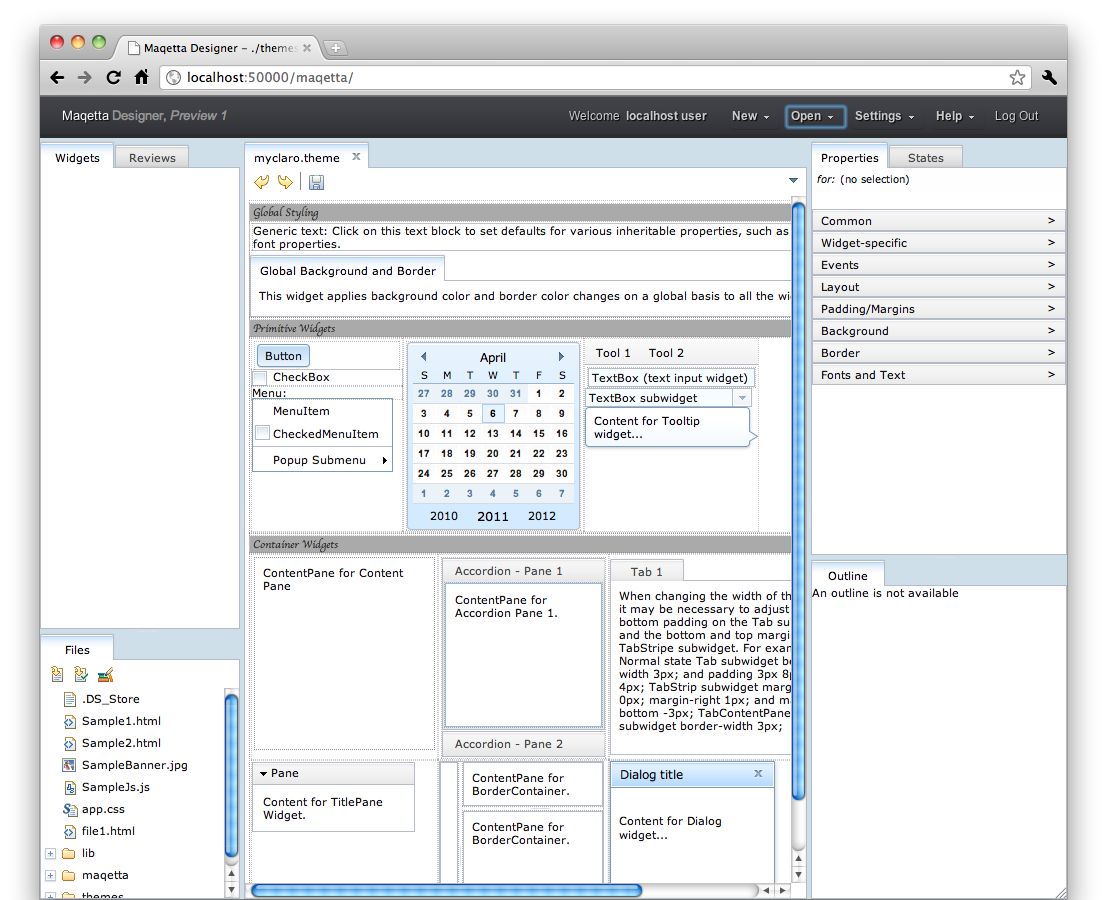
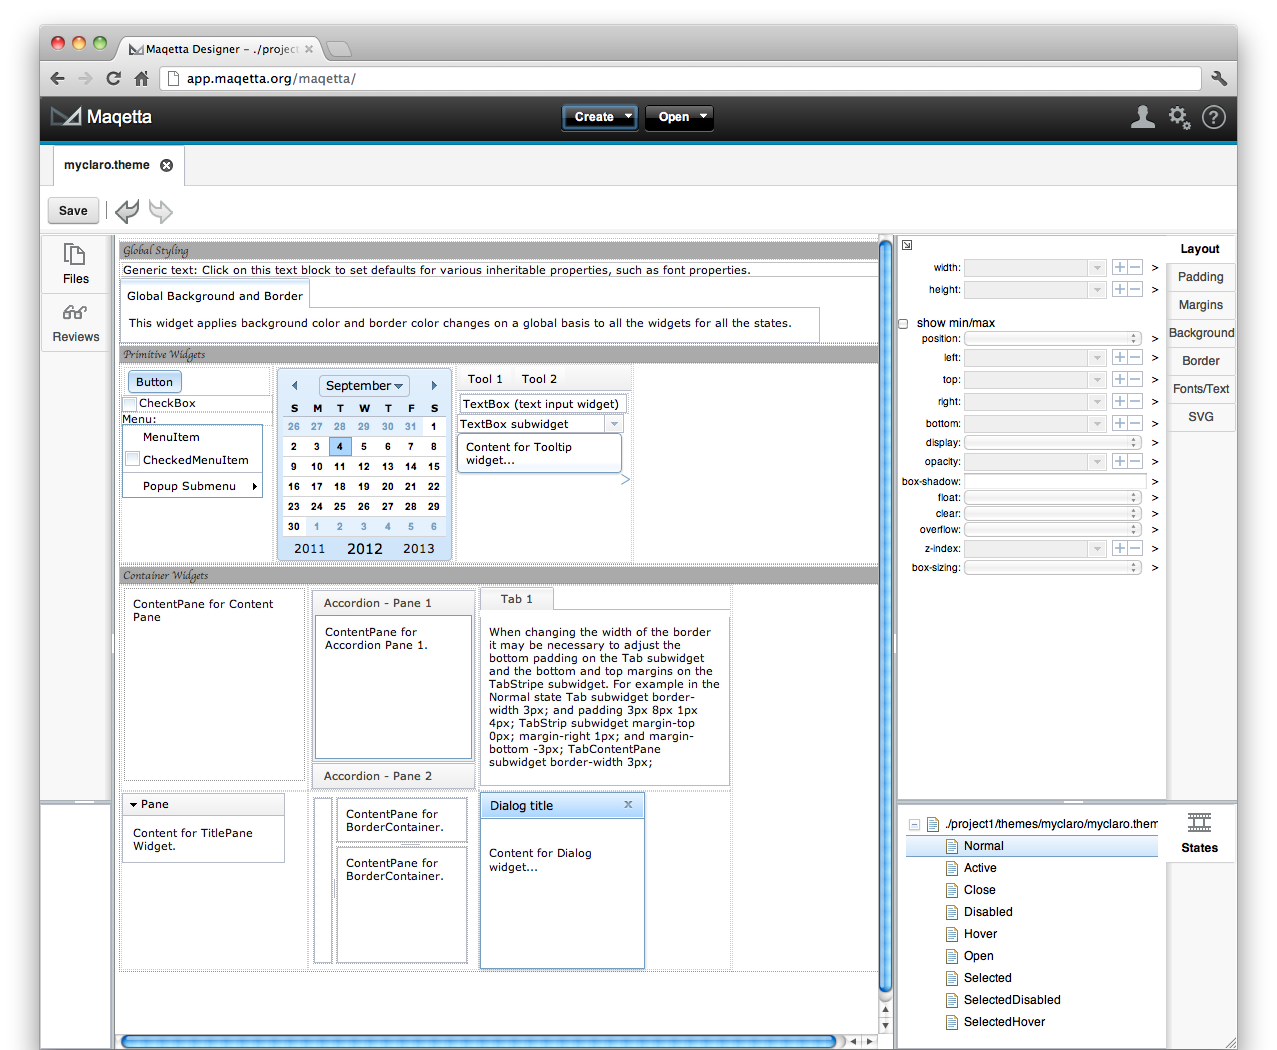
Update desktop theme editor tutorial

diff --git a/maqetta.core.client/WebContent/docs/tutorials/Desktop_Theme_Editor.html b/maqetta.core.client/WebContent/docs/tutorials/Desktop_Theme_Editor.html
@@ -23,7 +23,7 @@
 <a name="newtheme"><h2>Cloning the Claro theme and launching the theme editor</h2></a>
 
 <p>To create a new CSS theme and launch the theme editor, 
-	select <b>New &gt; Theme...</b> from the Maqetta menu bar.
+	select <b>Create &gt; Theme...</b> from the Maqetta menu bar.
 	A dialog will appear. In the first field, choose "claro" as the theme to clone.
 	In the second field, enter "myclaro" as the name for the cloned theme.
 	<em>(Note: theme names must not contain spaces or other special characters.)</em>
@@ -34,7 +34,7 @@
 	</div>
 </p> 
 	
-<p>After issuing the <b>New &gt; Theme</b> command, the Maqetta application should look something like this:</p>
+<p>After issuing the <b>Create &gt; Theme</b> command, the Maqetta application should look something like this:</p>
 
 <p><a href="img/Maqetta_ThemeEditor.png" target="_blank"><img alt="image" src="img/Maqetta_ThemeEditor.png" style="margin: 1em 1em 0pt 0pt;" width="500" /></a></p>
 
@@ -74,12 +74,11 @@ three sections: <b>Global Styling</b>, <b>Primitive Widgets</b> and <b>Container
 <li>Open the <b>Fonts and Text</b> section of the Properties palette.</li>
 <li>Set the font color to red.</li>
 <li>Notice how the text for all the widgets is now red.</li>
-<li>If you wish to commit this theme change, click on the <b>Save</b> icon <img class="inline" src="img/save_icon.png" /> to save your changes.
+<li>If you wish to commit this theme change, click on the <b>Save</b> button on the toolbar to save your changes.
 (Note: You can undo after saving within the same editing session.)</li>
 <li class="topgap">Create a new HTML file to see the new font color:
 <ol>
-<li>Select <b>New &gt; HTML file</b> from the Maqetta menu bar.
-	In the New HTML File dialog, set the Composition type to "Desktop hi-fi page" using the drop-down menu. 
+<li>Select <b>Create &gt; Desktop Application</b> from the Maqetta menu bar.
 	You can either accept the default filename
 	(e.g., <code>file1.html</code>) or enter a custom filename. Click on the Create button.</li> 
 <li>Drag a Button onto the canvas.
@@ -91,7 +90,7 @@ and the default text color with Claro is black.
 <li>Drag the HTML Rich Text widget onto the canvas and type in some text.</li>
 <li>Click off of the rich text widget to close it.</li>
 <li><i>Note that all of the text is black.</i></li>
-<li>On the toolbar, click on the "Switch themes" icon: <img src="img/stylesheet.gif" style="margin:0"></img>.
+<li>On the toolbar, choose the "Switch theme" command from the dropdown menu on the Document Settings icon (2nd from right on toolbar).
 	This will bring up a dialog that allows you to switch to a different theme.
 	In the menu, choose "myclaro" as the theme to use.</li>
 <li><i>Note that all of the text is now red.</i>
@@ -109,15 +108,14 @@ and the default text color with Claro is black.
 <li>Open the <b>Background</b> section of the Properties palette.</li>
 <li>Set the background color to a pale green.</li>
 <li>Notice how the color on the Primitive widgets is now green.</li>
-<li>Click on the <b>Save</b> icon <img class="inline" src="img/save_icon.png" /> to save your changes.</li>
+<li>Click on the <b>Save</b> icon button on the toolbar to save your changes.</li>
 <li class="topgap">Create a new HTML file to see the new background color:
 <ol>
-<li>Select <b>New &gt; HTML file</b> from the Maqetta menu bar to create a new HTML file. 
-	In the New HTML File dialog, set the Composition type to "Desktop hi-fi page" using the drop-down menu. </li> 
+<li>Select <b>Create &gt; Desktop Application</b> from the Maqetta menu bar to create a new HTML file. </li>
 <li>Drag a Button onto the canvas.</li>
 <li>Drag a Calendar onto the canvas.</li>
 <li><i>Note that both widgets are blue. This is because new HTML files start with the Claro theme.</i></li>
-<li>On the toolbar, click on the "Switch themes" icon: <img src="img/stylesheet.gif" style="margin:0"></img>.
+<li>On the toolbar, choose the "Switch theme" command from the dropdown menu on the Document Settings icon (2nd from right on toolbar).
 	This will bring up a dialog that allows you to switch to a different theme.
 	In the menu, choose "myclaro" as the theme to use.</li>
 <li><i>Note that the two widgets are now green.</i>
@@ -141,18 +139,17 @@ and the default text color with Claro is black.
 <li>In the Properties palette, open the <b>Fonts and Text</b> section.</li>
 <li>Adjust the various text properties (e.g., font family, font size, color).</li> 
 <li>Notice how the changes are applied to the Button widget on the canvas.</li> 
-<li>Click on the <b>Save</b> <img class="inline" src="img/save_icon.png" /> icon on the page editor toolbar to save your theme modifications.</li>
+<li>Click on the <b>Save</b> button on the toolbar to save your theme modifications.</li>
 </ol></li>
 <li class="topgap">Create a new HTML file to use the new button style:
 <ol>
-<li>Select <b>New &gt; HTML file</b> from the Maqetta menu bar to create a new HTML file.
-	In the New HTML File dialog, set the Composition type to "Desktop hi-fi page" using the drop-down menu. </li> 
+<li>Select <b>Create &gt; Desktop Application</b> from the Maqetta menu bar to create a new HTML file.</li> 
 <li>Drag two buttons from the Widget palette onto the canvas.</li>
-<li>On the toolbar, click on the "Switch themes" icon: <img src="img/stylesheet.gif" style="margin:0"></img>.
+<li>On the toolbar, choose the "Switch theme" command from the dropdown menu on the Document Settings icon (2nd from right on toolbar)..
 	This will bring up a dialog that allows you to switch to a different theme.
 	In the menu, choose "myclaro" as the theme to use.</li>
 <li>Notice how the two buttons reflect the styling settings that you defined in the theme editor.</li> 
-<li>In the page editor toolbar, click the <b>Preview in Browser</b> <img class="inline" src="img/preview-browser.gif" /> icon. This will launch a new browser window that contains the HTML page you just created.</li>
+<li>In the page editor toolbar, click the <b>Preview in Browser</b> <img class="inline" src="img/preview-browser.png" /> icon. This will launch a new browser window that contains the HTML page you just created.</li>
 </ol></li></ol>
 
 <p class="note">Sometimes changes made in the theme editor don't show up in the page editor until you do a browser refresh. 
@@ -213,15 +210,14 @@ Save and close the theme editor before doing a browser refresh, then reopen it i
 <li>Click off the Color Picker to accept the same color and close the picker.</li></ol></li>
 
 <li class="topgap">View <b>TabContainer</b> in various states:<ol>
-<li>Click on the <b>Save</b> <img class="inline" src="img/save_icon.png" /> icon on the theme editor toolbar to save your changes.</li>
-<li>Open a new HTML file (select <b>New &gt; HTML File...</b> from the Maqetta menu bar).
-	In the New HTML File dialog, set the Composition type to "Desktop hi-fi page" using the drop-down menu.</li>
-<li>On the toolbar, click on the "Switch themes" icon: <img src="img/stylesheet.gif" style="margin:0"></img>.
+<li>Click on the <b>Save</b> button on the toolbar to save your changes.</li>
+<li>Open a new HTML file (select <b>Create &gt; Desktop Application</b> from the Maqetta menu bar).</li>
+<li>On the toolbar, choose the "Switch theme" command from the dropdown menu on the Document Settings icon (2nd from right on toolbar).
 	This will bring up a dialog that allows you to switch to a different theme.
 	In the menu, choose "myclaro" as the theme to use.</li>
 <li>Drag a TabContainer onto the canvas (accept the default tab names).</li>
 <li>Click on each tab to view the color differences.</li>
-<li>Click the <b>Preview in Browser</b> <img class="inline" src="img/preview-browser.gif" /> icon in the toolbar. This will launch a new browser window that contains the HTML page you just created.</li>
+<li>Click the <b>Preview in Browser</b> <img class="inline" src="img/preview-browser.png" /> icon in the toolbar. This will launch a new browser window that contains the HTML page you just created.</li>
 <li>Click on each tab to view the color differences.</li>
 <li>Note the difference in color when you hover over each tab. This is controlled by the <b>Hover state</b>. Try changing the tab color for the hover state, then view the results.</li></ol></li>
 </ol>
@@ -273,9 +269,9 @@ This exercise uses the Generic text block to globally change the font on all wid
 <li>In the Properties palette under <b>Background</b>, set the color to pale yellow. </li>
 <li>Notice that the background color for many of the Primitive widgets changes to the selected color.</li>
 <li>(Notice that the background color for the container widgets does not change. Use ContentPane to globally change the background for container widgets.)</li>
-<li>Click on the <b>Save</b> <img class="inline" src="img/save_icon.png" /> icon save your theme changes.</li>
-<li>Open <b>Sample1.html</b> and <b>Sample2.html</b>, for each file switch to the "myclaro" theme (using the <img src="img/stylesheet.gif" style="margin:0"></img> toolbar icon), and preview them in the browser 
-(using the <b>Preview in Browser</b> <img class="inline" src="img/preview-browser.gif" /> toolbar icon) to see the affects this change.</li>
+<li>Click on the <b>Save</b> button on the toolbar to save your theme changes.</li>
+<li>Open <b>Sample1.html</b> and <b>Sample2.html</b>, for each file switch to the "myclaro" theme (using the "Switch theme" command from the dropdown menu on the Document Settings icon (2nd from right on toolbar)), and preview them in the browser 
+(using the <b>Preview in Browser</b> <img class="inline" src="img/preview-browser.png" /> toolbar icon) to see the affects this change.</li>
 </ol></li>
 
 </ul>
@@ -298,10 +294,9 @@ This exercise uses the Generic text block to globally change the font on all wid
 <li>Notice how the font color for the month name changes on the Calendar widget.</li>
 <li>In the subwidget popup check the box next to <b>CalendarDayLabel</b> and change the font color.</li>
 <li>Continue to select other subwidgets and change the styling.</li>
-<li>Click on the <b>Save</b> <img class="inline" src="img/save_icon.png" /> icon save your theme changes.</li>
-<li>Create a new HTML file (select <b>New &gt; HTML File...</b> from the Maqetta menu bar).
-	In the New HTML File dialog, set the Composition type to "Desktop hi-fi page" using the drop-down menu.</li>
-<li>On the toolbar, click on the "Switch themes" icon: <img src="img/stylesheet.gif" style="margin:0"></img>.
+<li>Click on the <b>Save</b> button on the toolbar to save your theme changes.</li>
+<li>Create a new HTML file (select <b>Create &gt; Desktop Application</b> from the Maqetta menu bar).</li>
+<li>On the toolbar, choose the "Switch theme" command from the dropdown menu on the Document Settings icon (2nd from right on toolbar).
 	This will bring up a dialog that allows you to switch to a different theme.
 	In the menu, choose "myclaro" as the theme to use.</li>
 <li>Drag a Calendar widget onto the canvas.</li>
@@ -344,17 +339,16 @@ This will change the styling for the Button's Normal state.</li>
 <li>Notice that the Button's styling now shows the current styling for the Hover state.</li>
 <li>In the Styling palette, change the Button's styling for the Hover state, making it different from the styling you gave it for the Normal state.</li>
 <li>In the States palette, alternately click on the Normal and Hover states and observe the style changes on the Button widget.</li>
-<li>Click on the <b>Save</b> <img class="inline" src="img/save_icon.png" /> icon save your theme changes.</li>
+<li>Click on the <b>Save</b> button on the toolbar to save your theme changes.</li>
 </ol></li>
 <li class="topgap">Test your theme changes:
 <ol>
-<li>Select <b>New &gt; HTML File...</b> from the Maqetta menu bar open up a new HTML page.
-	In the New HTML File dialog, set the Composition type to "Desktop hi-fi page" using the drop-down menu.</li>
-<li>On the toolbar, click on the "Switch themes" icon: <img src="img/stylesheet.gif" style="margin:0"></img>.
+<li>Select <b>Create &gt; Desktop Application</b> from the Maqetta menu bar open up a new HTML page.</li>
+<li>On the toolbar, choose the "Switch theme" command from the dropdown menu on the Document Settings icon (2nd from right on toolbar).
 	This will bring up a dialog that allows you to switch to a different theme.
 	In the menu, choose "myclaro" as the theme to use.</li>
 <li>Drag a Button widget onto the canvas.</li>
-<li>In the page editor toolbar, click the <b>Preview in Browser</b> <img class="inline" src="img/preview-browser.gif" /> icon. This will launch a new browser window that contains the HTML page you just created (which only contains the Button widget).</li>
+<li>In the page editor toolbar, click the <b>Preview in Browser</b> <img class="inline" src="img/preview-browser.png" /> icon. This will launch a new browser window that contains the HTML page you just created (which only contains the Button widget).</li>
 <li>The button should reflect the styles you set for the Normal state.</li>
 <li>Hover your mouse over the button to observe the styling for the Hover state.</li>
 </ol></li>
